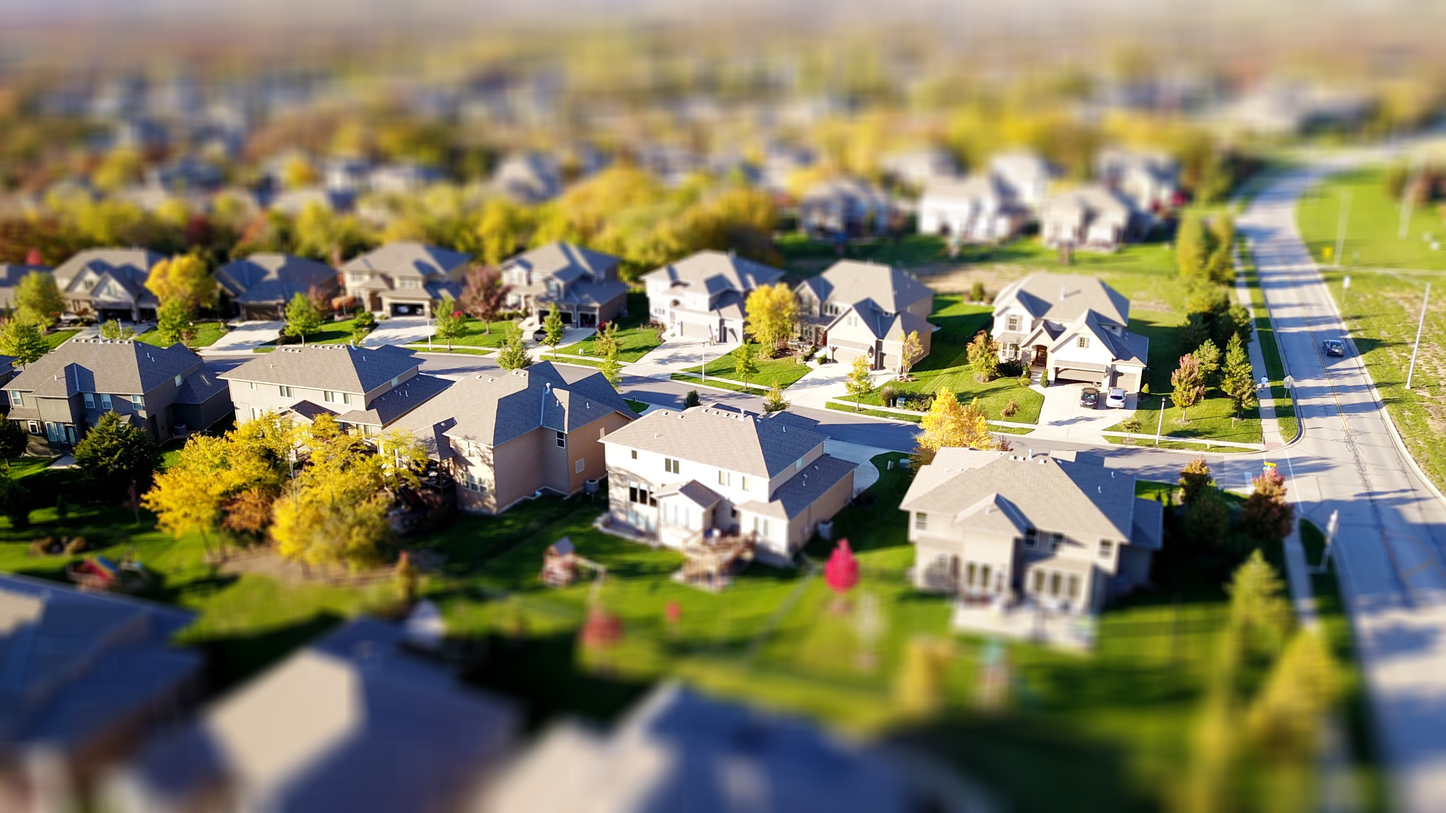
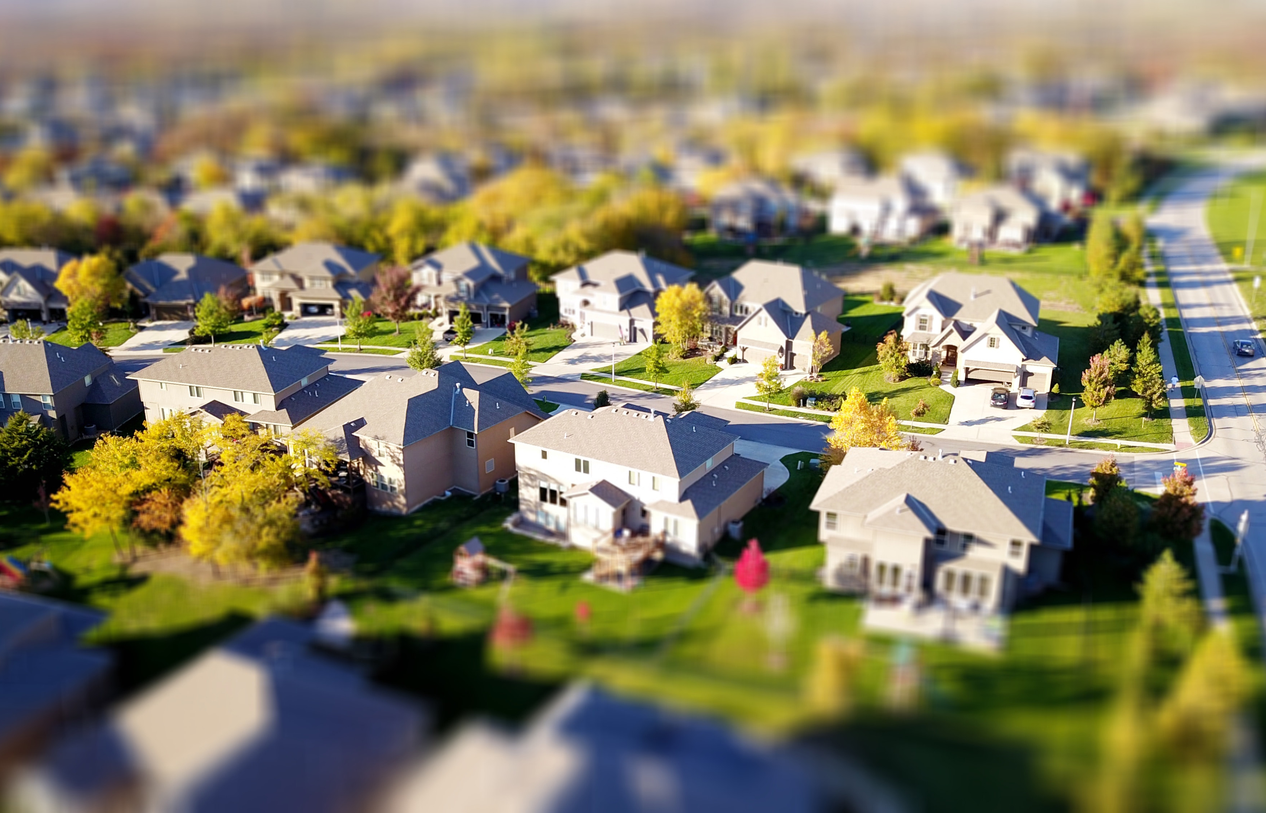
updated images

diff --git a/assignments/lesson-9/css/small-9.css b/assignments/lesson-9/css/small-9.css
@@ -287,8 +287,7 @@ text-align: center;
 }
 
 #town img {
-    padding: 2rem;
-    width: 20%;
+    padding-top: 2rem;
 
 }
 
